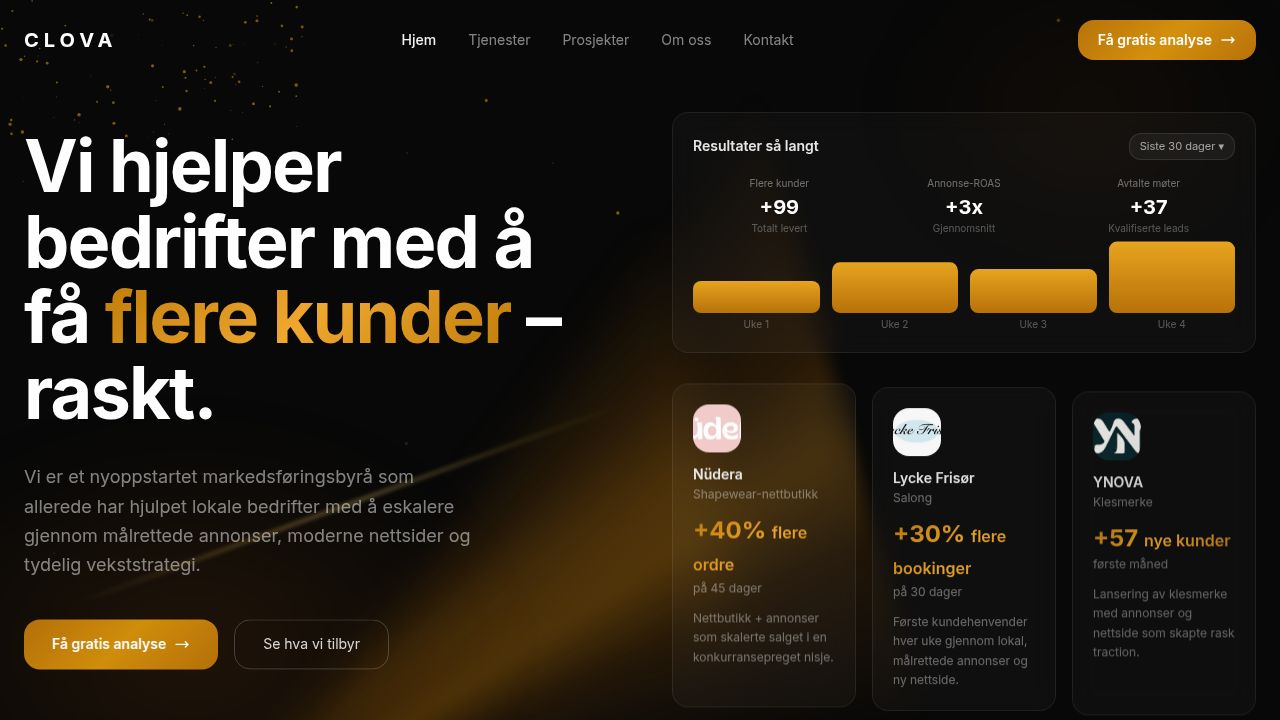
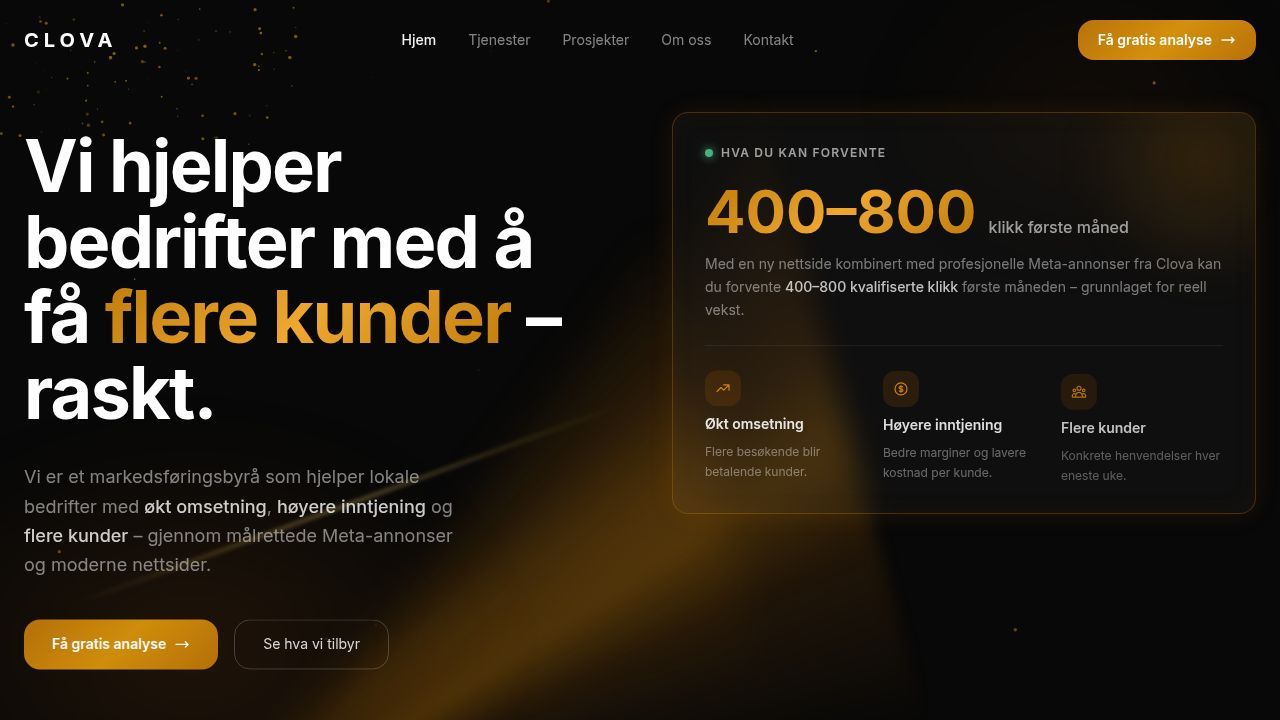
Update website to showcase expected results and new partners
Adds a new component to display expected results and updates partner logos.

Replit-Commit-Author: Agent
Replit-Commit-Session-Id: 3388496b-ba7c-4ea1-9bd2-09f685bb6c3b
Replit-Commit-Checkpoint-Type: full_checkpoint
Replit-Commit-Event-Id: 82e00854-7738-4271-88bb-39cb86503d30
Replit-Commit-Screenshot-Url: https://storage.googleapis.com/screenshot-production-us-central1/56011667-8a06-4b27-96bb-02828cd37eaf/3388496b-ba7c-4ea1-9bd2-09f685bb6c3b/1NN9zEm
Replit-Helium-Checkpoint-Created: true

diff --git a/artifacts/clova-website/src/pages/Home.tsx b/artifacts/clova-website/src/pages/Home.tsx
@@ -205,6 +205,81 @@ function ResultsDashboard() {
   );
 }
 
+function ExpectedResultsCard() {
+  const { ref, isInView } = useScrollInView(0.2);
+  const benefits = [
+    {
+      icon: "M13 7h8m0 0v8m0-8l-8 8-4-4-6 6",
+      label: "Økt omsetning",
+      desc: "Flere besøkende blir betalende kunder.",
+    },
+    {
+      icon: "M12 8c-1.657 0-3 .895-3 2s1.343 2 3 2 3 .895 3 2-1.343 2-3 2m0-8c1.11 0 2.08.402 2.599 1M12 8V7m0 1v8m0 0v1m0-1c-1.11 0-2.08-.402-2.599-1M21 12a9 9 0 11-18 0 9 9 0 0118 0z",
+      label: "Høyere inntjening",
+      desc: "Bedre marginer og lavere kostnad per kunde.",
+    },
+    {
+      icon: "M17 20h5v-2a3 3 0 00-5.356-1.857M17 20H7m10 0v-2c0-.656-.126-1.283-.356-1.857M7 20H2v-2a3 3 0 015.356-1.857M7 20v-2c0-.656.126-1.283.356-1.857m0 0a5.002 5.002 0 019.288 0M15 7a3 3 0 11-6 0 3 3 0 016 0zm6 3a2 2 0 11-4 0 2 2 0 014 0zM7 10a2 2 0 11-4 0 2 2 0 014 0z",
+      label: "Flere kunder",
+      desc: "Konkrete henvendelser hver eneste uke.",
+    },
+  ];
+  return (
+    <motion.div
+      ref={ref}
+      className="relative card-glass rounded-2xl p-7 md:p-8 w-full overflow-hidden glow-border"
+      initial={{ opacity: 0, y: 30, scale: 0.97 }}
+      animate={isInView ? { opacity: 1, y: 0, scale: 1 } : {}}
+      transition={{ duration: 0.7, ease: [0.22, 1, 0.36, 1] }}
+    >
+      {/* Subtle gold radial glow */}
+      <div
+        className="absolute -top-20 -right-20 w-64 h-64 rounded-full pointer-events-none"
+        style={{ background: "radial-gradient(circle, rgba(212,134,10,0.18), transparent 70%)", filter: "blur(20px)" }}
+      />
+
+      <div className="relative">
+        <div className="flex items-center gap-2 mb-2">
+          <span className="w-2 h-2 rounded-full" style={{ background: "#4caf82", boxShadow: "0 0 10px #4caf82" }} />
+          <span className="text-xs font-semibold uppercase tracking-widest text-white/60">Hva du kan forvente</span>
+        </div>
+
+        <div className="mt-5 mb-6">
+          <div className="flex items-baseline gap-3 flex-wrap">
+            <span className="text-5xl md:text-6xl font-bold gold-gradient-text leading-none">400–800</span>
+            <span className="text-base text-white/60 font-medium">klikk første måned</span>
+          </div>
+          <p className="text-sm text-white/45 mt-3 leading-relaxed">
+            Med en ny nettside kombinert med profesjonelle Meta-annonser fra Clova kan du forvente <span className="text-white/75 font-medium">400–800 kvalifiserte klikk</span> første måneden – grunnlaget for reell vekst.
+          </p>
+        </div>
+
+        <div className="h-px mb-6" style={{ background: "rgba(255,255,255,0.07)" }} />
+
+        <div className="grid grid-cols-1 sm:grid-cols-3 gap-4">
+          {benefits.map((b, i) => (
+            <motion.div
+              key={b.label}
+              initial={{ opacity: 0, y: 14 }}
+              animate={isInView ? { opacity: 1, y: 0 } : {}}
+              transition={{ duration: 0.5, delay: 0.25 + i * 0.1, ease: [0.22, 1, 0.36, 1] }}
+              className="flex flex-col gap-2"
+            >
+              <div className="w-9 h-9 rounded-lg flex items-center justify-center" style={{ background: "rgba(180,100,10,0.18)" }}>
+                <svg className="w-4 h-4" fill="none" stroke="#d4860a" viewBox="0 0 24 24">
+                  <path strokeLinecap="round" strokeLinejoin="round" strokeWidth={1.8} d={b.icon} />
+                </svg>
+              </div>
+              <div className="text-sm font-semibold text-white/90">{b.label}</div>
+              <p className="text-xs text-white/40 leading-relaxed">{b.desc}</p>
+            </motion.div>
+          ))}
+        </div>
+      </div>
+    </motion.div>
+  );
+}
+
 function ClientResultCard({ c, delay }: { c: (typeof CLIENT_CARDS)[0]; delay: number }) {
   const { ref, isInView } = useScrollInView(0.2);
   return (
@@ -463,7 +538,7 @@ export default function Home() {
                 animate={{ opacity: 1, y: 0 }}
                 transition={{ duration: 0.8, delay: 0.2, ease: [0.22, 1, 0.36, 1] }}
               >
-                Vi er et nyoppstartet markedsføringsbyrå som allerede har hjulpet lokale bedrifter med å eskalere gjennom målrettede annonser, moderne nettsider og tydelig vekststrategi.
+                Vi er et markedsføringsbyrå som hjelper lokale bedrifter med <span className="text-white/80 font-medium">økt omsetning</span>, <span className="text-white/80 font-medium">høyere inntjening</span> og <span className="text-white/80 font-medium">flere kunder</span> – gjennom målrettede Meta-annonser og moderne nettsider.
               </motion.p>
 
               <motion.div
@@ -496,19 +571,18 @@ export default function Home() {
                 transition={{ duration: 0.8, delay: 0.5 }}
               >
                 <div className="text-sm font-medium text-white/80 mb-1">Bedrifter vi har jobbet med</div>
-                <div className="text-xs text-white/30 mb-5">I oppstartsfasen – men leverer allerede resultater for lokale bedrifter vi er stolte av å jobbe med.</div>
+                <div className="text-xs text-white/30 mb-5">Lokale bedrifter vi er stolte av å samarbeide med.</div>
                 <div className="flex items-center gap-6">
                   {[
-                    { src: "/logos/nudera.jpeg", alt: "Nüdera", bg: "#d9a8a2" },
                     { src: "/logos/lycke.jpeg", alt: "Lycke Frisør", bg: "#e8f0f8" },
-                    { src: "/logos/ynova.jpeg", alt: "YNOVA", bg: "#1a3a36" },
+                    { src: "/logos/alfreds.png", alt: "Alfreds", bg: "#0a0a0a" },
                   ].map((l) => (
                     <div key={l.alt} className="flex items-center gap-2">
                       <div
-                        className="rounded-lg overflow-hidden flex-shrink-0"
-                        style={{ background: l.bg, width: 48, height: 28 }}
+                        className="rounded-lg overflow-hidden flex-shrink-0 flex items-center justify-center"
+                        style={{ background: l.bg, width: 64, height: 32 }}
                       >
-                        <img src={l.src} alt={l.alt} className="w-full h-full object-cover" />
+                        <img src={l.src} alt={l.alt} className="w-full h-full object-contain" />
                       </div>
                     </div>
                   ))}
@@ -517,13 +591,8 @@ export default function Home() {
             </div>
 
             {/* RIGHT */}
-            <div className="flex flex-col gap-4 pt-4">
-              <ResultsDashboard />
-              <div className="grid grid-cols-3 gap-4">
-                {CLIENT_CARDS.map((c, i) => (
-                  <ClientResultCard key={c.id} c={c} delay={0.15 + i * 0.1} />
-                ))}
-              </div>
+            <div className="flex flex-col gap-5 pt-4">
+              <ExpectedResultsCard />
             </div>
           </div>
         </div>
@@ -553,7 +622,7 @@ export default function Home() {
                 Vi er spesialister på Meta-annonser og nettsideutvikling. Vi setter oss inn i virksomheten din, forstår målgruppen din, og leverer kampanjer og løsninger som faktisk konverterer besøkende til kunder.
               </p>
               <p className="text-white/65 leading-relaxed text-sm">
-                Allerede i oppstartsfasen har vi hjulpet bedrifter som Nüdera, Lycke Frisør og YNOVA med å skalere gjennom målrettede annonser og moderne nettsider – og vi er bare i gang.
+                Vi jobber tett med lokale bedrifter som Lycke Frisør og Alfreds, og hjelper dem å skalere gjennom målrettede annonser og moderne nettsider – med fokus på økt omsetning og flere kunder.
               </p>
               <div className="pt-2">
                 <button
@@ -645,6 +714,9 @@ export default function Home() {
             title="Kreativt som stopper scrollingen"
             sub="Vi produserer annonser som fanger oppmerksomhet og driver konverteringer."
           />
+          <p className="text-center text-[11px] text-white/30 italic max-w-2xl mx-auto mt-3 px-4">
+            * Annonsene vises som promo-eksempler vi har fått tillatelse til å produsere for byrået vårt – ikke et reelt klientsamarbeid.
+          </p>
           <motion.div
             className="hidden md:flex gap-6 mt-14 justify-center"
             variants={stagger}
@@ -681,6 +753,9 @@ export default function Home() {
             title="Nettsider vi har laget"
             sub="Se transformasjonen fra utdatert til profesjonell og konverterende."
           />
+          <p className="text-center text-[11px] text-white/30 italic max-w-2xl mx-auto mt-3 px-4">
+            * Nettsidene vises som promo-eksempler vi har fått tillatelse til å produsere for byrået vårt – ikke et reelt klientsamarbeid.
+          </p>
           {/* Tabs */}
           <div className="flex justify-center gap-2 mt-10 mb-10 flex-wrap">
             {PROJECTS.map((p) => (
@@ -779,7 +854,8 @@ export default function Home() {
           >
             {/* Nettside */}
             <motion.div
-              className="card-glass card-glass-hover rounded-2xl p-8"
+              className="relative rounded-2xl p-8 glow-border"
+              style={{ background: "rgba(255,255,255,0.04)" }}
               variants={{ hidden: { opacity: 0, y: 30 }, show: { opacity: 1, y: 0, transition: { duration: 0.6, ease: [0.22, 1, 0.36, 1] } } }}
             >
               <div className="text-xs font-semibold uppercase tracking-widest mb-5" style={{ color: "#d4860a" }}>Nettside</div>
@@ -815,9 +891,6 @@ export default function Home() {
               style={{ background: "rgba(255,255,255,0.04)" }}
               variants={{ hidden: { opacity: 0, y: 30 }, show: { opacity: 1, y: 0, transition: { duration: 0.6, delay: 0.1, ease: [0.22, 1, 0.36, 1] } } }}
             >
-              <div className="absolute -top-3.5 left-1/2 -translate-x-1/2">
-                <span className="px-4 py-1 rounded-full text-xs font-bold uppercase tracking-widest text-white btn-gold">Populær</span>
-              </div>
               <div className="text-xs font-semibold uppercase tracking-widest mb-5" style={{ color: "#d4860a" }}>Meta annonser</div>
               <div className="text-3xl font-bold gold-gradient-text mb-1">1 måned gratis</div>
               <div className="text-xs text-white/30 mb-5">Deretter</div>
